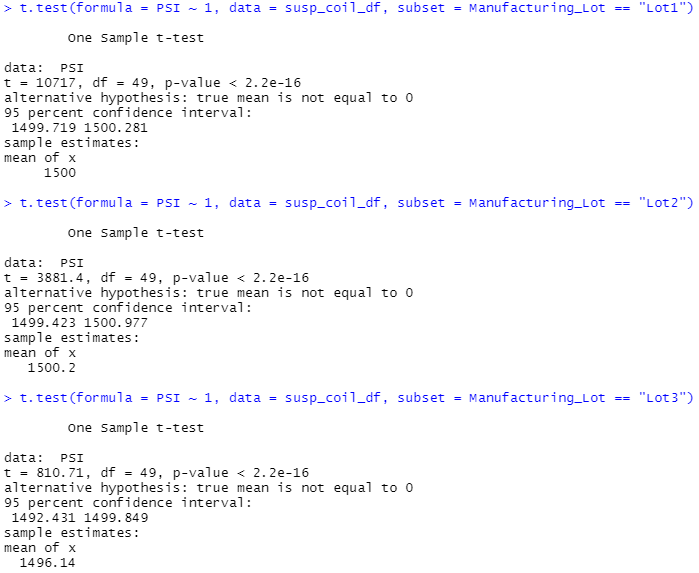
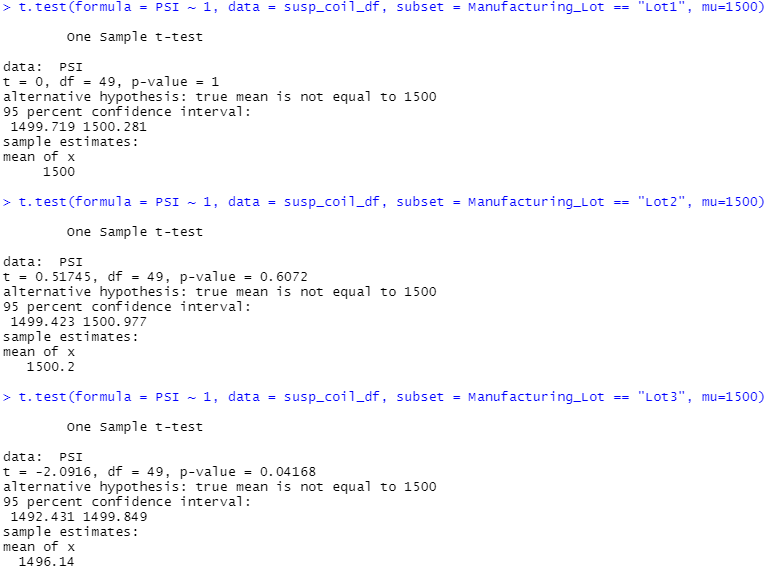
Updated README.md with analyses for deliverables 1 - 3

diff --git a/README.md b/README.md
@@ -2,11 +2,25 @@
 
 ## Linear Regression to Predict MPG
 
-![LR for MPG]()
+![LR for MPG](https://github.com/mshideler/MechaCar_Statistical_Analysis/blob/main/Resources/Multi_lrm_summary.PNG)
+
+Above is the summary output for the linear regression performed using the MechaCar's vehicle length, vehicle weight, spoiler angle, ground clearance and AWD to see which variables would predict the MechaCar's MPG.  It appears vehicle length and ground clearance provided a non-random amount of varience to the mpg values in the dataset due to their p-values (both practically 0) being less than the significant value of 0.05.  Overall, the slope of the linear model is considered non-zero based on the values for a couple of variables in the above summary.  First, the multiple R-squared and Adjusted R-squared are high, which implies the regression model is a good fit.  Second, the p-value is practically 0, which is less than the significance level of 0.05, implying evidence against a null hypothesis.  This being said, there are only two significant variables (vehicle length and ground clearance), so there may be evidence of overfitting, making the linear model an ineffective predictor for the MechaCar's MPG.
 
 ## Summary Statistics on Suspension Coils
 
-![total_summary]()
+![total_summary](https://github.com/mshideler/MechaCar_Statistical_Analysis/blob/main/Resources/total_summary.PNG)
 
-![lot_summary]()
+![lot_summary](https://github.com/mshideler/MechaCar_Statistical_Analysis/blob/main/Resources/lot_summary.PNG)
+
+Above are summary statistics based on the weights of suspension coils produced at three manufacturing lots.  The top table shows the statistics across all three lots.  The bottom table shows the statistics for each lot.  While the mean and median values are at or close to the population mean of 1500 PSI for suspension coils, the variance per lot tells a different story.  By design, the MechaCar's suspension coils should exceed a variance of 100 PSI.  The variance values for Lots 1 and 2 are both under 100 PSI; however, Lot 3's variance exceeds the design specification, indicating manufacturing isues at this lot that need to be addressed.
+
+## T-Tests on Suspension Coils
+
+![t-test all lots](https://github.com/mshideler/MechaCar_Statistical_Analysis/blob/main/Resources/all_lots_t_test.PNG)
+
+![t-test per lot](https://github.com/mshideler/MechaCar_Statistical_Analysis/blob/main/Resources/lots_1_2_3_t_test.PNG)
+
+Here, we have the t-test results for determining if the PSI for suspension coils across all manufacturing lots is statistically different from the population mean of 1500 PSI or if there is a statistical difference exists at the manufacturing lot level.  The top test results show a p-value of 0.06028, which is greater than a signficance level of 0.05.  This indicates no statistical difference between the mean PSI across all lots and the population mean.  The lower test results show p-values of 1, 0.6072 and .04168 for manufacturing lots 1, 2 and 3, respectively.  Because the p-values for lots 1 and 2 are higher than the significance value of 0.05, there is no statistical difference between their means and the population mean.  Lot 3's p-value of 0.04168 is lower than the significance level of 0.05, therefore indicating a statistical difference between Lot 3's mean and population mean.  This supports the claim made in the prior section with summary statistics that there appears to be manufacturing issues at Lot 3.
+
+## Study Design: MechaCar vs. Competition
 
